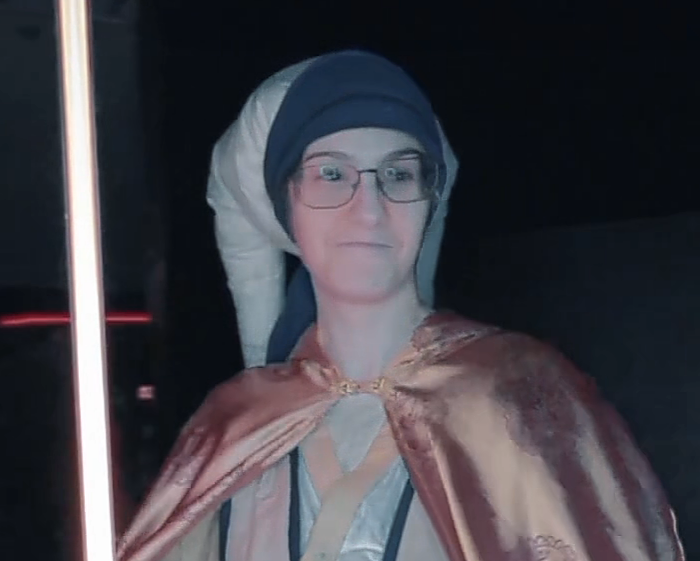
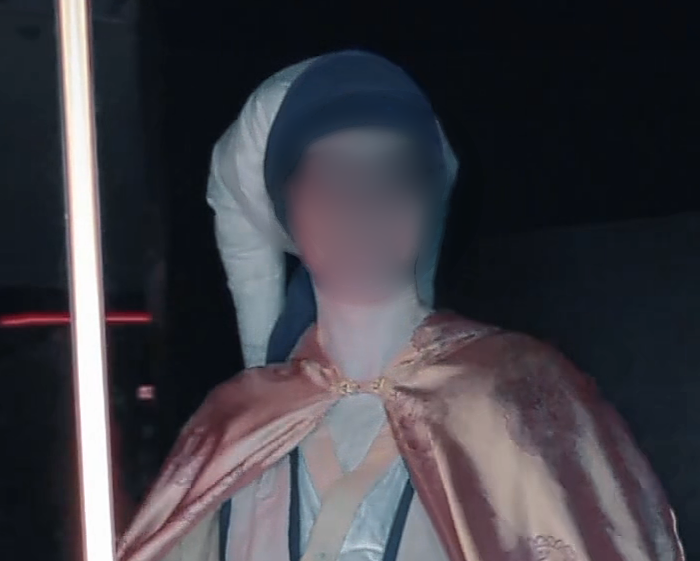
changed picture, edited picture description

Changed region(s): [[0.36, 0.2121, 0.66, 0.5455]]

diff --git a/aboutpage.html b/aboutpage.html
@@ -34,7 +34,7 @@
 	    Enthusiastic, fun, and friendly especially once I feel comfortable (not at the expense of responsibilities, though!). I'm not always a social butterfly, but in the right enviroments I love to make friends, go out with friends and generally have a good time. I'm a long-time attendee of DragonCon, down in Atlanta, Georgia, maybe you've heard of this local convention... that has over 70k attendee's anually? 
 	    </p>
 	    <!-- Insert picture of a cosplay here, probably my twilek-->
-	    <img src = "" alt = "A picture of Chris in a Jedi cosplay. It has gold and blue thick shoulder straps (tabbards), a blue and gold belt, and white and tan tunic. The pants are tan. Chris is wearing a headpiece that has two tail-like pieces hanging down past their shoulders that are designed as lekku from Twilek's from Star Wars. Chris is holding a black lightsaber that the light is set to yellow, almost gold, as the color." id = "cosplayPic"/> 
+	    <img src = "cosplay.png" alt = "A picture of Chris in a Jedi cosplay. Chris's face is blurred. The cosplay has gold and blue thick shoulder straps (tabbards), a blue and gold belt, and white and tan tunic. Chris is wearing a headpiece that has two tail-like pieces hanging down past their shoulders that are designed as lekku from Twilek's from Star Wars. Chris is holding a black lightsaber that the light is set to yellow, almost gold, as the color." id = "cosplayPic"/> 
 		<p id ="picture_info">
 	    Yes, that is me in that picture! And yes, I did make that outfit (mostly. I have yet to make pants, or shoes, but I might be able to tackle pants here - the headpiece in the picture above, ironically, helped get the "how" of how to make pants click, of all things), and I've made a few other cosplay outfits too. I started, back in my early teens, with a run to the local Goodwill and what I had in my closet for my first outfit, and now, I'm planning on making a full Mandalorian suit sometime in the next few years. The goal is before next DragonCon, but I'm not going to beat myself up if it doesn't happen. Real life comes first. 
 	    </p>
